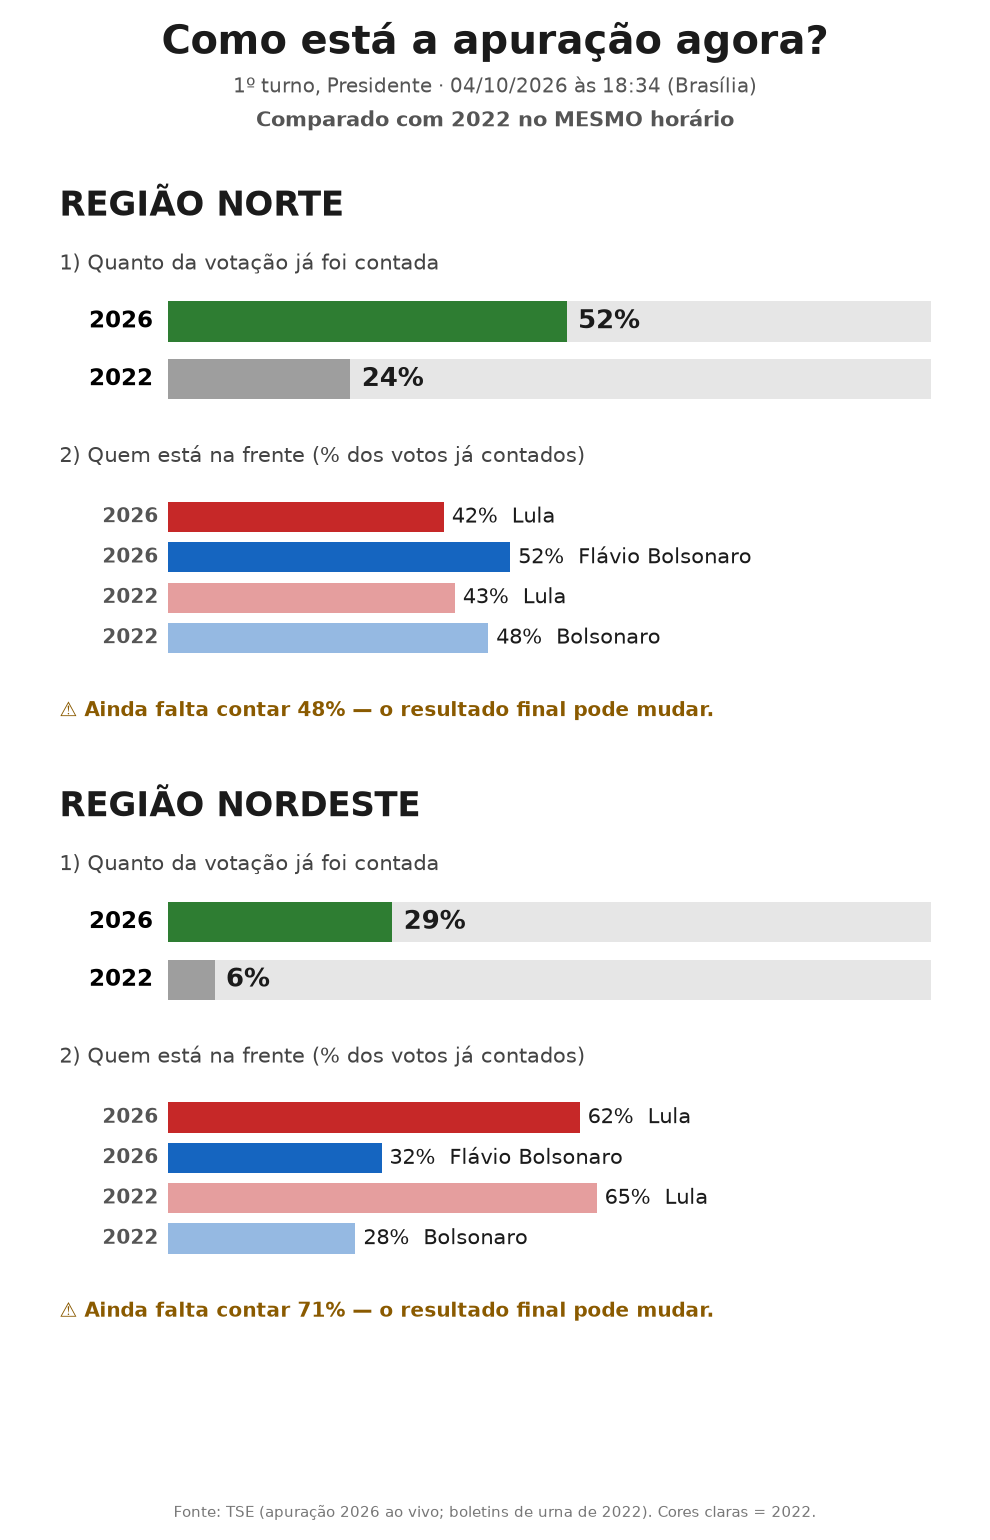
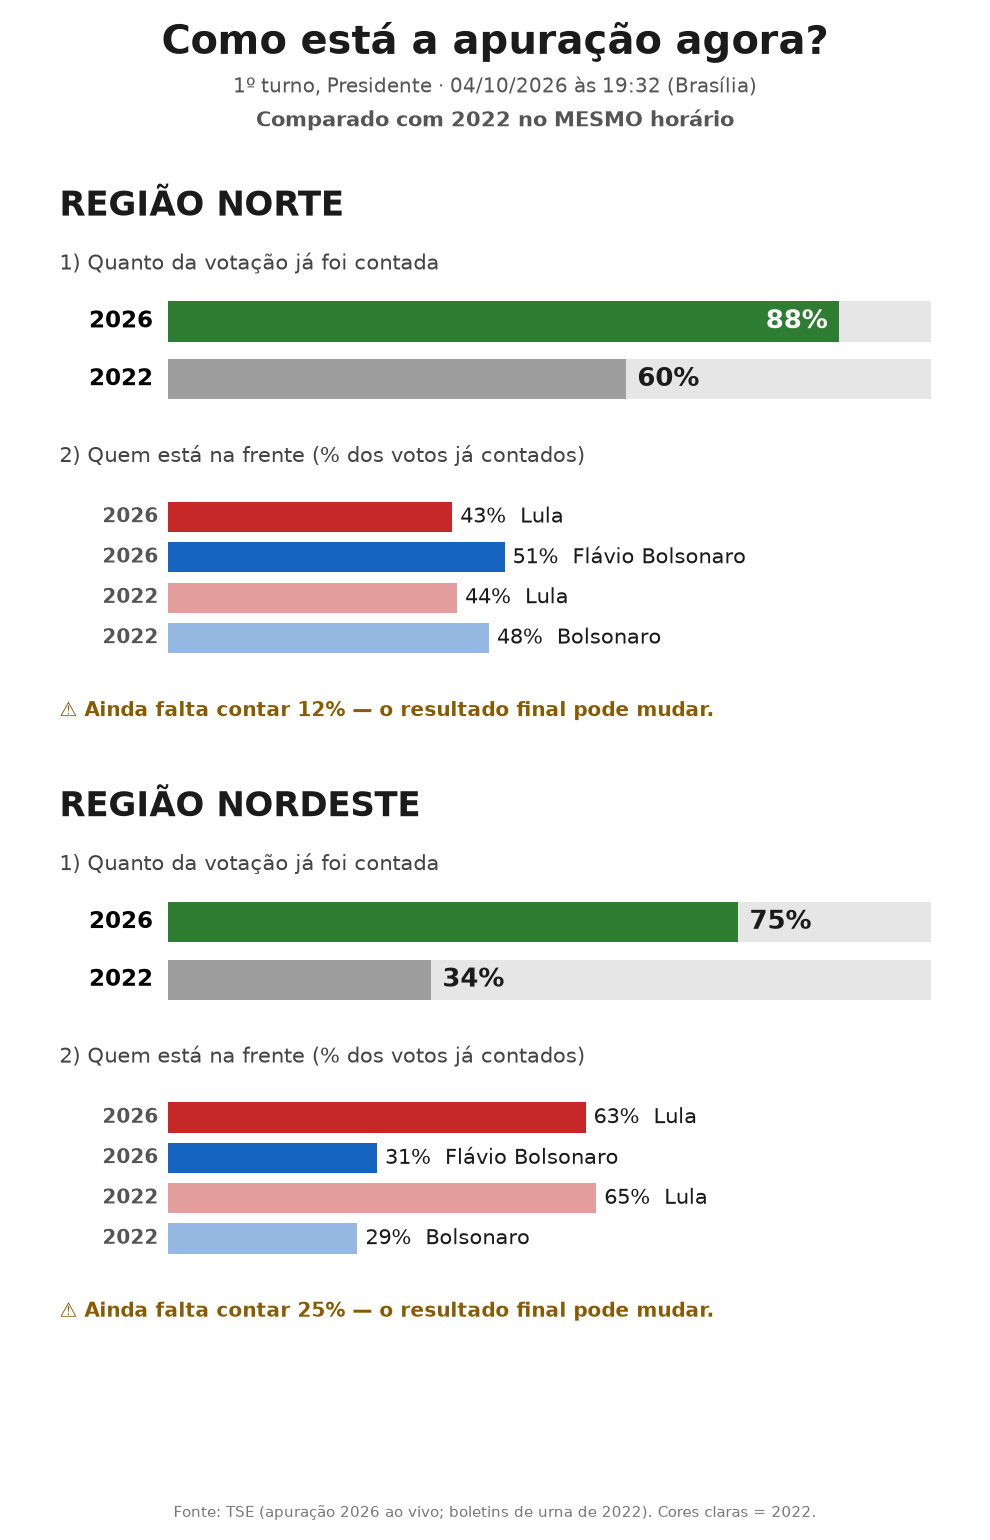
Corta 2022 no horário do arquivo de cada UF (corrige comparação regional)
Claude-Session: https://claude.ai/code/session_01GYm5aQPjLVK7kH858b3eWL

diff --git a/apuracao_norte_2022/comparar_2026.py b/apuracao_norte_2022/comparar_2026.py
@@ -7,6 +7,7 @@ Cada execução acrescenta uma linha por UF em historico_2026_<regiao>.csv e imp
 import json, sys, urllib.request, os
 from datetime import datetime, timedelta
 import pandas as pd
+from corte2022 import secoes_ate
 
 REGIAO = sys.argv[1] if len(sys.argv) > 1 else "norte"
 REGIOES = {"norte": "ac,am,ap,pa,ro,rr,to", "nordeste": "al,ba,ce,ma,pb,pe,pi,rn,se", "top10": "sp,mg,rj,ba,rs,pr,pe,ce,pa,sc"}
@@ -38,8 +39,7 @@ inst = datetime.strptime(atual.gerado_em.iloc[0], "%d/%m/%Y %H:%M:%S")  # horár
 
 # --- 2022 no mesmo horário do dia (hora de Brasília) ---
 s22 = pd.read_csv(f"{AQUI}/secoes_{REGIAO}_1t_2022.csv.gz", parse_dates=["recebido"])
-corte = datetime(2022, 10, 2, inst.hour, inst.minute, inst.second)
-r = s22[s22.recebido <= corte]
+r = secoes_ate(s22, atual[["uf", "gerado_em"]])  # cada UF cortada no horário do seu arquivo
 c22 = r.groupby("uf")[["lula", "bolsonaro", "outros"]].sum()
 c22["secoes_apuradas_2022"] = r.groupby("uf").size()
 c22["total_2022"] = s22.groupby("uf").size()
@@ -55,7 +55,8 @@ tot_row = pd.DataFrame([dict(gerado_em=atual.gerado_em.iloc[0], uf=REGIAO.upper(
 atual = pd.concat([atual, tot_row], ignore_index=True)
 atual.to_csv(HIST, mode="a", header=not os.path.exists(HIST), index=False)
 
-print(f"Instante: {inst:%d/%m/%Y %H:%M:%S} (Brasília)  |  2022 cortado em {corte:%H:%M:%S}")
+horas = sorted(set(atual.gerado_em.str[-8:].iloc[:-1]))
+print(f"Arquivos 2026 gerados entre {horas[0]} e {horas[-1]} (Brasília); cada UF de 2022 cortada no horário do seu arquivo")
 out = pd.DataFrame({"uf": atual.uf, "seções 2026 %": atual.pct_secoes}).set_index("uf")
 out["seções 2022 %"] = c22.pct_secoes_2022
 for k in ["v_LULA", "v_FLAVIO BOLSONARO"]:

diff --git a/apuracao_norte_2022/projecao_simples.py b/apuracao_norte_2022/projecao_simples.py
@@ -1,6 +1,7 @@
 """Projeção SIMPLES: aplica ao placar de 2026 o quanto o placar de cada estado mudou em 2022
 entre este mesmo horário e o fim da apuração. Pressupõe a mesma ordem de chegada das urnas de 2022."""
 import pandas as pd
+from corte2022 import secoes_ate
 from datetime import datetime
 AQUI = __file__.rsplit("/", 1)[0]
 h = pd.read_csv(f"{AQUI}/historico_2026_top10.csv").tail(11).set_index("uf")
@@ -10,7 +11,7 @@ corte = datetime(2022, 10, 2, inst.hour, inst.minute, inst.second)
 def pct(d):
     g = d.groupby("uf")[["lula", "bolsonaro", "outros"]].sum(); v = g.sum(axis=1)
     return g.div(v, axis=0) * 100, g.sum(axis=1)
-agora22, _ = pct(s[s.recebido <= corte]); final22, vot22 = pct(s)
+agora22, _ = pct(secoes_ate(s, h.drop("TOP10").reset_index()[["uf", "gerado_em"]])); final22, vot22 = pct(s)
 linhas = []
 for uf in ["SP", "MG", "RJ", "BA", "RS", "PR", "PE", "CE", "PA", "SC"]:
     r = h.loc[uf]; vv = r.votos_validos

diff --git a/apuracao_norte_2022/infografico.py b/apuracao_norte_2022/infografico.py
@@ -2,6 +2,7 @@
 import os, sys
 from datetime import datetime
 import pandas as pd
+from corte2022 import secoes_ate
 import matplotlib
 matplotlib.use("Agg")
 import matplotlib.pyplot as plt
@@ -15,7 +16,8 @@ def dados(regiao):
     ult = h[h.gerado_em == h.gerado_em.iloc[-1]].set_index("uf").loc[regiao.upper()]
     inst = datetime.strptime(ult.gerado_em, "%d/%m/%Y %H:%M:%S")
     s22 = pd.read_csv(f"{AQUI}/secoes_{regiao}_1t_2022.csv.gz", parse_dates=["recebido"])
-    r = s22[s22.recebido <= datetime(2022, 10, 2, inst.hour, inst.minute, inst.second)]
+    ufs = h.tail(s22.uf.nunique() + 1); ufs = ufs[ufs.uf != regiao.upper()]
+    r = secoes_ate(s22, ufs)
     val = r.lula.sum() + r.bolsonaro.sum() + r.outros.sum()
     return dict(inst=inst, p26=ult.pct_secoes, p22=len(r) / len(s22) * 100,
                 l26=ult["v_LULA"] / ult.votos_validos * 100, b26=ult["v_FLAVIO BOLSONARO"] / ult.votos_validos * 100,

diff --git a/apuracao_norte_2022/infografico_top10.py b/apuracao_norte_2022/infografico_top10.py
@@ -2,6 +2,7 @@
 import os
 from datetime import datetime
 import numpy as np, pandas as pd
+from corte2022 import secoes_ate
 import matplotlib
 matplotlib.use("Agg")
 import matplotlib.pyplot as plt
@@ -12,7 +13,7 @@ h = pd.read_csv(f"{AQUI}/historico_2026_top10.csv")
 u = h.tail(11).set_index("uf")  # última rodada: 10 UFs + linha TOP10
 inst = datetime.strptime(u.loc["SP"].gerado_em, "%d/%m/%Y %H:%M:%S")
 s22 = pd.read_csv(f"{AQUI}/secoes_top10_1t_2022.csv.gz", parse_dates=["recebido"])
-r = s22[s22.recebido <= datetime(2022, 10, 2, inst.hour, inst.minute, inst.second)]
+r = secoes_ate(s22, u.drop("TOP10").reset_index()[["uf", "gerado_em"]])
 g = r.groupby("uf")[["lula", "bolsonaro", "outros"]].sum()
 ordem = ["SP", "MG", "RJ", "BA", "RS", "PR", "PE", "CE", "PA", "SC"]
 L = pd.DataFrame(index=ordem)

diff --git a/apuracao_norte_2022/corte2022.py b/apuracao_norte_2022/corte2022.py
@@ -1,0 +1,12 @@
+"""Corta as seções de 2022 em cada UF no horário do PRÓPRIO arquivo de 2026 daquela UF.
+(Cada UF tem hora de geração um pouco diferente; usar um único horário para a região distorce a comparação.)"""
+from datetime import datetime
+import pandas as pd
+
+def secoes_ate(s22, linhas):
+    """s22: seções 2022 (coluna uf, recebido). linhas: DataFrame com colunas uf e gerado_em (dd/mm/aaaa hh:mm:ss), só UFs."""
+    partes = []
+    for r in linhas.itertuples():
+        t = datetime.strptime(r.gerado_em, "%d/%m/%Y %H:%M:%S")
+        partes.append(s22[(s22.uf == r.uf) & (s22.recebido <= datetime(2022, 10, 2, t.hour, t.minute, t.second))])
+    return pd.concat(partes)
